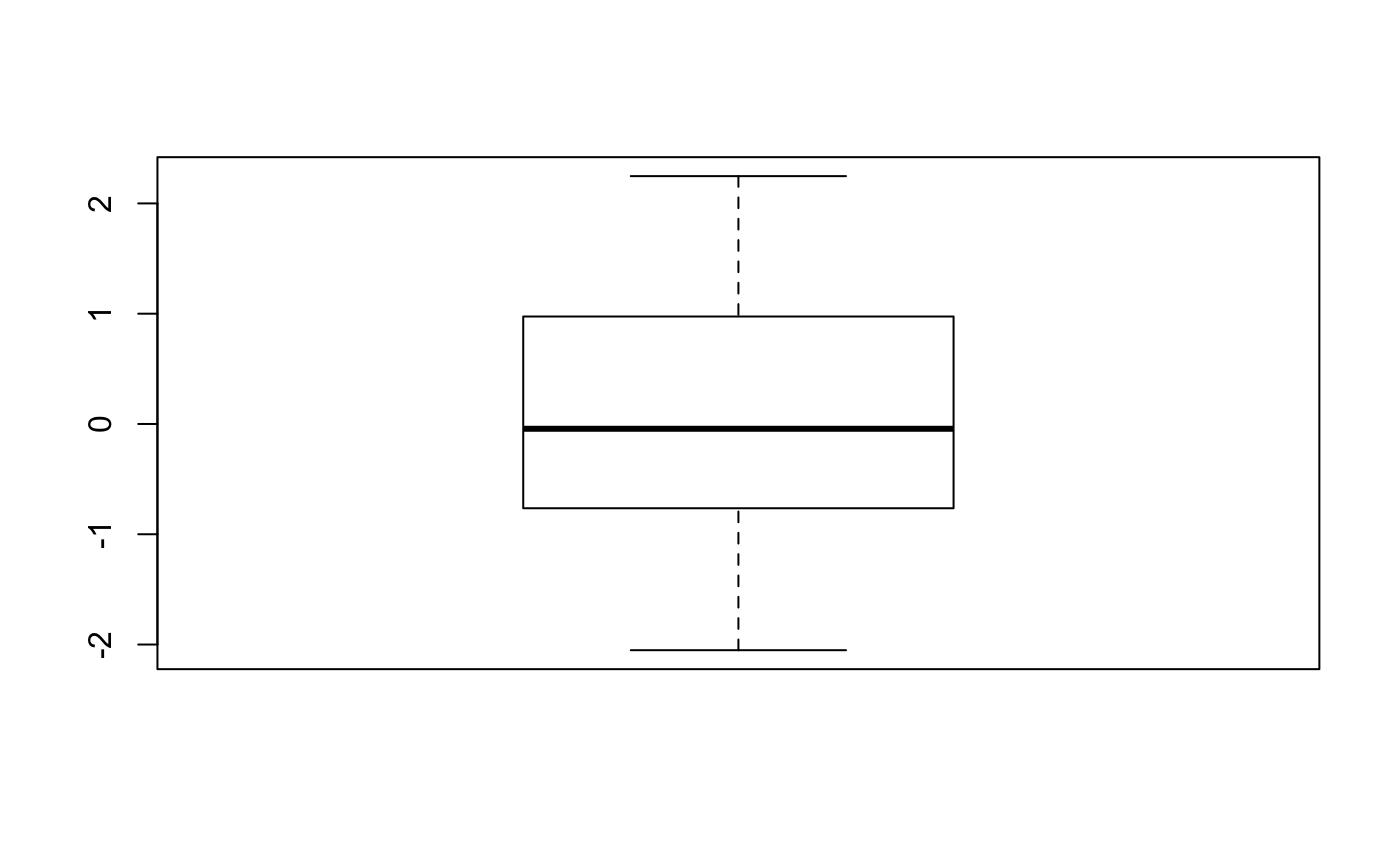
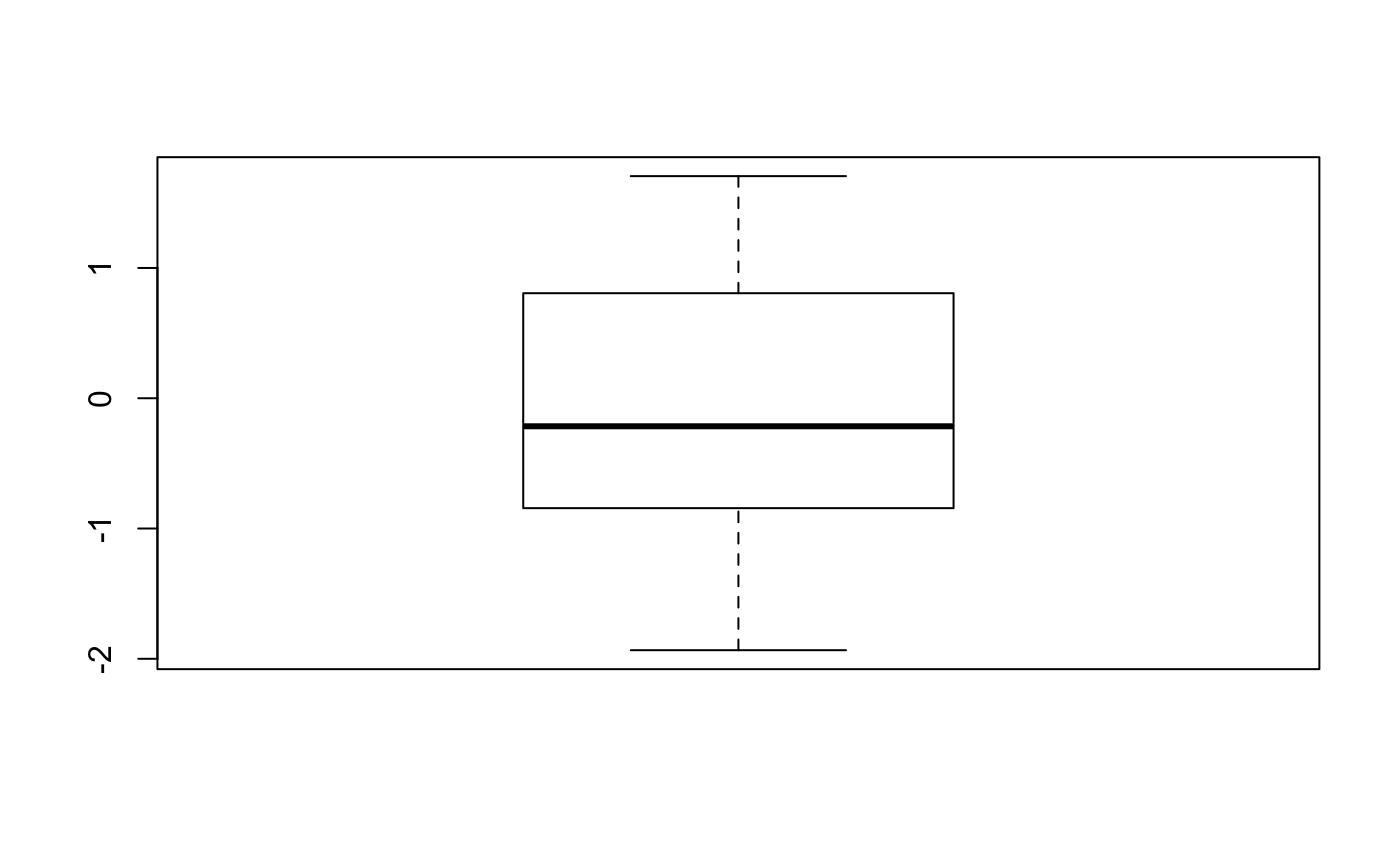
Built site for svMisc: 1.1.1@b7a2bc5

diff --git a/articles/svMisc.html b/articles/svMisc.html
@@ -178,12 +178,20 @@
 <span class="fu"><a href="../reference/batch.html">batch</a></span>(<span class="fu"><a href="https://rdrr.io/r/base/paste.html">paste0</a></span>(<span class="st">"file"</span>, <span class="fl">1</span>:<span class="fl">10</span>), <span class="no">fake_process</span>)
 <span class="co">#&gt; Running the batch process with fake_process...</span>
 <span class="co">#&gt; </span>
-<span class="co">#&gt; Progress:  1 on 10  Progress:  2 on 10  Progress:  3 on 10  Progress:  4 on 10  Progress:  5 on 10  Progress:  6 on 10  Progress:  7 on 10  Progress:  8 on 10</span>
-<span class="co">#&gt; Warning in fun(item, ...): fake_process was unable to process file8</span>
+<span class="co">#&gt; Progress:  1 on 10</span>
+<span class="co">#&gt; Warning in fun(item, ...): fake_process was unable to process file1</span>
 <span class="co">#&gt; </span>
-<span class="co">#&gt; Progress:  9 on 10  Progress: 10 on 10</span>
-<span class="co">#&gt; Warning in fun(item, ...): fake_process was unable to process file10</span>
-<span class="co">#&gt; Processed successfully 8 items on 10 (see .last.batch)</span></pre></body></html></div>
+<span class="co">#&gt; Progress:  2 on 10</span>
+<span class="co">#&gt; Warning in fun(item, ...): fake_process was unable to process file2</span>
+<span class="co">#&gt; </span>
+<span class="co">#&gt; Progress:  3 on 10  Progress:  4 on 10</span>
+<span class="co">#&gt; Warning in fun(item, ...): fake_process was unable to process file4</span>
+<span class="co">#&gt; </span>
+<span class="co">#&gt; Progress:  5 on 10  Progress:  6 on 10  Progress:  7 on 10  Progress:  8 on 10  Progress:  9 on 10</span>
+<span class="co">#&gt; Warning in fun(item, ...): fake_process was unable to process file9</span>
+<span class="co">#&gt; </span>
+<span class="co">#&gt; Progress: 10 on 10                      </span>
+<span class="co">#&gt; Processed successfully 6 items on 10 (see .last.batch)</span></pre></body></html></div>
 <p>In case an error occurred, the information is recorded i, <code>.last.batch</code>:</p>
 <div class="sourceCode" id="cb5"><html><body><pre class="r"><span class="no">.last.batch</span>
 <span class="co">#&gt; [1] FALSE</span>
@@ -191,7 +199,7 @@
 <span class="co">#&gt;  [1] "file1"  "file2"  "file3"  "file4"  "file5"  "file6"  "file7"  "file8" </span>
 <span class="co">#&gt;  [9] "file9"  "file10"</span>
 <span class="co">#&gt; attr(,"ok")</span>
-<span class="co">#&gt;  [1]  TRUE  TRUE  TRUE  TRUE  TRUE  TRUE  TRUE FALSE  TRUE FALSE</span></pre></body></html></div>
+<span class="co">#&gt;  [1] FALSE FALSE  TRUE FALSE  TRUE  TRUE  TRUE  TRUE FALSE  TRUE</span></pre></body></html></div>
 <p>The <code>items</code> and <code>ok</code> attributes are also available from that object for further inspection and action.</p>
 <p>If you run <code><a href="../reference/batch.html">batch()</a></code> in R, you noted also the <code><a href="../reference/progress.html">progress()</a></code>ion message that appeared. Indeed the <code><a href="../reference/progress.html">progress()</a></code> function allows to display such a message, either as a text at the R console, or in a dialog box. There are many different forms, see the man page <code><a href="../reference/progress.html">?progress</a></code>. for instance, here is a progress bar in percent, stopped at 75% () you need to call <code><a href="../reference/progress.html">progress()</a></code> with a value higher than <code>max.value =</code> to dismiss it):</p>
 <div class="sourceCode" id="cb6"><html><body><pre class="r"><span class="kw">for</span> (<span class="no">i</span> <span class="kw">in</span> <span class="fl">0</span>:<span class="fl">75</span>) {
@@ -288,10 +296,10 @@
 <span class="co">#&gt;  [4]     "c" := c(c1 = 4.5, c2 = 7.8, c3 = Inf, c4 = -Inf,                                                                                  </span>
 <span class="co">#&gt;  [5]     NA, c6 = NaN), "" := c(TRUE, FALSE, NA), "e" := list("Data_" := c(1,                                                               </span>
 <span class="co">#&gt;  [6]     2, 1), "levels" := c("a", "b"), "class" := "factor"),                                                                              </span>
-<span class="co">#&gt;  [7]     "f" := "this is a \\"string\\" with quote", "g" := list("Data_" := c(-0.84400160011353,                                            </span>
-<span class="co">#&gt;  [8]     1.36010371906419, 0.96129871878422, 0.01714048279857), "dim" := c(2,                                                               </span>
-<span class="co">#&gt;  [9]     2)), "h&amp;$@" := list("x" := seq(1, 3), "y" := c(1.592677104991,                                                                     </span>
-<span class="co">#&gt; [10]     -0.71885800408928, -0.88619349001327), "fact" := list("Data_" := c(2,                                                              </span>
+<span class="co">#&gt;  [7]     "f" := "this is a \\"string\\" with quote", "g" := list("Data_" := c(-0.56423177929749,                                            </span>
+<span class="co">#&gt;  [8]     0.6891207471707, 0.18400701888293, 1.18745311802501), "dim" := c(2,                                                                </span>
+<span class="co">#&gt;  [9]     2)), "h&amp;$@" := list("x" := seq(1, 3), "y" := c(1.92040573187735,                                                                   </span>
+<span class="co">#&gt; [10]     -0.26246727340663, -1.67744475289832), "fact" := list("Data_" := c(2,                                                              </span>
 <span class="co">#&gt; [11]     1, 2), "levels" := c("a", "b"), "class" := "factor")),                                                                             </span>
 <span class="co">#&gt; [12]     "i" := list("Data_" := 18372., "class" := "Date"),                                                                                 </span>
 <span class="co">#&gt; [13]     "j" := list("" := seq(1, 5), "y" := "another item")), "comment" := "My comment", "anAttrib" := seq(1, 10), "anotherAttrib" := list(</span>
@@ -320,16 +328,16 @@
 <span class="co">#&gt; [1] "this is a \"string\" with quote"</span>
 <span class="co">#&gt; </span>
 <span class="co">#&gt; $g</span>
-<span class="co">#&gt;            [,1]       [,2]</span>
-<span class="co">#&gt; [1,] -0.8440016 0.96129872</span>
-<span class="co">#&gt; [2,]  1.3601037 0.01714048</span>
+<span class="co">#&gt;            [,1]     [,2]</span>
+<span class="co">#&gt; [1,] -0.5642318 0.184007</span>
+<span class="co">#&gt; [2,]  0.6891207 1.187453</span>
 <span class="co">#&gt; </span>
 <span class="co">#&gt; $`h&amp;$@`</span>
 <span class="co">#&gt; $`h&amp;$@`$x</span>
 <span class="co">#&gt; [1] 1 2 3</span>
 <span class="co">#&gt; </span>
 <span class="co">#&gt; $`h&amp;$@`$y</span>
-<span class="co">#&gt; [1]  1.5926771 -0.7188580 -0.8861935</span>
+<span class="co">#&gt; [1]  1.9204057 -0.2624673 -1.6774448</span>
 <span class="co">#&gt; </span>
 <span class="co">#&gt; $`h&amp;$@`$fact</span>
 <span class="co">#&gt; [1] b a b</span>
@@ -367,7 +375,7 @@
 <li>Get the temporary directory used by this R process</li>
 </ul>
 <div class="sourceCode" id="cb15"><html><body><pre class="r"><span class="fu"><a href="../reference/system_file.html">system_dir</a></span>(<span class="st">"temp"</span>)
-<span class="co">#&gt; [1] "/var/folders/24/8k48jl6d249_n_qfxwsl6xvm0000gn/T//Rtmpx5IK3W"</span></pre></body></html></div>
+<span class="co">#&gt; [1] "/var/folders/24/8k48jl6d249_n_qfxwsl6xvm0000gn/T//RtmpfQs3Xa"</span></pre></body></html></div>
 <ul>
 <li>Get the system temporary directory</li>
 </ul>
@@ -453,7 +461,7 @@
 <li>Get the name of an (unused) temporary variable:</li>
 </ul>
 <div class="sourceCode" id="cb28"><html><body><pre class="r"><span class="fu"><a href="../reference/temp_var.html">temp_var</a></span>(<span class="st">"my_var"</span>)
-<span class="co">#&gt; [1] "my_var51465"</span></pre></body></html></div>
+<span class="co">#&gt; [1] "my_var32926"</span></pre></body></html></div>
 <ul>
 <li>Manage a temporary environment attached to the search path using <code><a href="../reference/temp_env.html">TempEnv()</a></code> and the <code>temp_XXX()</code> functions. The <strong>temporary_environment</strong> vignette gives more details on this series of functions.</li>
 </ul>

diff --git a/reference/system_file.html b/reference/system_file.html
@@ -246,7 +246,7 @@ and files for <code>system_dir()</code> and <code>system_file()</code>.</p>
 
     <h2 class="hasAnchor" id="examples"><a class="anchor" href="#examples"></a>Examples</h2>
     <pre class="examples"><div class='input'><span class='fu'>system_file</span>(<span class='st'>"INDEX"</span>, <span class='kw'>package</span> <span class='kw'>=</span> <span class='st'>"base"</span>)</div><div class='output co'>#&gt; [1] "/Library/Frameworks/R.framework/Resources/library/base/INDEX"</div><div class='input'><span class='fu'>system_file</span>(<span class='st'>"help"</span>, <span class='st'>"AnIndex"</span>, <span class='kw'>package</span> <span class='kw'>=</span> <span class='st'>"splines"</span>)</div><div class='output co'>#&gt; [1] "/Library/Frameworks/R.framework/Resources/library/splines/help/AnIndex"</div><div class='input'><span class='fu'>system_file</span>(<span class='kw'>package</span> <span class='kw'>=</span> <span class='st'>"base"</span>)  <span class='co'># This is a dir, not a file!</span></div><div class='output co'>#&gt; [1] ""</div><div class='input'><span class='fu'>system_file</span>(<span class='st'>"zip"</span>, <span class='kw'>exec</span> <span class='kw'>=</span> <span class='fl'>TRUE</span>)</div><div class='output co'>#&gt; [1] "/usr/bin/zip"</div><div class='input'><span class='fu'>system_file</span>(<span class='st'>"ftp"</span>, <span class='st'>"ping"</span>, <span class='st'>"zip"</span>, <span class='st'>"nonexistingexe"</span>, <span class='kw'>exec</span> <span class='kw'>=</span> <span class='fl'>TRUE</span>)</div><div class='output co'>#&gt;            ftp           ping            zip nonexistingexe 
-#&gt;             ""   "/sbin/ping" "/usr/bin/zip"             "" </div><div class='input'><span class='fu'>system_dir</span>(<span class='st'>"temp"</span>)             <span class='co'># The R temporary directory</span></div><div class='output co'>#&gt; [1] "/var/folders/24/8k48jl6d249_n_qfxwsl6xvm0000gn/T//RtmpARNhNT"</div><div class='input'><span class='fu'>system_dir</span>(<span class='st'>"sysTemp"</span>)          <span class='co'># The system temporary directory</span></div><div class='output co'>#&gt; [1] "/tmp"</div><div class='input'><span class='fu'>system_dir</span>(<span class='st'>"user"</span>)             <span class='co'># The user directory</span></div><div class='output co'>#&gt; [1] "/Users/runner"</div><div class='input'><span class='fu'>system_dir</span>(<span class='st'>"home"</span>, <span class='st'>"bin"</span>, <span class='st'>"doc"</span>, <span class='st'>"etc"</span>, <span class='st'>"share"</span>)  <span class='co'># Various R dirs</span></div><div class='output co'>#&gt;                                              home 
+#&gt;             ""   "/sbin/ping" "/usr/bin/zip"             "" </div><div class='input'><span class='fu'>system_dir</span>(<span class='st'>"temp"</span>)             <span class='co'># The R temporary directory</span></div><div class='output co'>#&gt; [1] "/var/folders/24/8k48jl6d249_n_qfxwsl6xvm0000gn/T//Rtmp1t02I0"</div><div class='input'><span class='fu'>system_dir</span>(<span class='st'>"sysTemp"</span>)          <span class='co'># The system temporary directory</span></div><div class='output co'>#&gt; [1] "/tmp"</div><div class='input'><span class='fu'>system_dir</span>(<span class='st'>"user"</span>)             <span class='co'># The user directory</span></div><div class='output co'>#&gt; [1] "/Users/runner"</div><div class='input'><span class='fu'>system_dir</span>(<span class='st'>"home"</span>, <span class='st'>"bin"</span>, <span class='st'>"doc"</span>, <span class='st'>"etc"</span>, <span class='st'>"share"</span>)  <span class='co'># Various R dirs</span></div><div class='output co'>#&gt;                                              home 
 #&gt;       "/Library/Frameworks/R.framework/Resources" 
 #&gt;                                               bin 
 #&gt;   "/Library/Frameworks/R.framework/Resources/bin" 

diff --git a/reference/obj_browse.html b/reference/obj_browse.html
@@ -496,7 +496,7 @@ explorer managed by the GUI client.</p>
 #&gt; [9] options 
 #&gt; &lt;0 rows&gt; (or 0-length row.names)</div><div class='input'><span class='fu'><a href='https://rdrr.io/r/base/rm.html'>rm</a></span>(<span class='no'>iris</span>, <span class='no'>trees</span>)</div><div class='output co'>#&gt; <span class='warning'>Warning: object 'iris' not found</span></div><div class='output co'>#&gt; <span class='warning'>Warning: object 'trees' not found</span></div><div class='input'>
 <span class='co'># For environments</span>
-(<span class='fu'>obj_info</span>(<span class='kw'>envir</span> <span class='kw'>=</span> <span class='st'>".GlobalEnv"</span>))</div><div class='output co'>#&gt; [1] "Global environment\n\n          used (Mb) gc trigger (Mb) limit (Mb) max used (Mb)\nNcells  921097 49.2    1823517 97.4         NA  1823517 97.4\nVcells 1911962 14.6    8388608 64.0      16384  3730114 28.5"</div><div class='input'>(<span class='fu'>obj_menu</span>(<span class='kw'>envir</span> <span class='kw'>=</span> <span class='st'>".GlobalEnv"</span>))</div><div class='output co'>#&gt;        widget     value                                              tip
+(<span class='fu'>obj_info</span>(<span class='kw'>envir</span> <span class='kw'>=</span> <span class='st'>".GlobalEnv"</span>))</div><div class='output co'>#&gt; [1] "Global environment\n\n          used (Mb) gc trigger (Mb) limit (Mb) max used (Mb)\nNcells  920995 49.2    1812650 96.9         NA  1812650 96.9\nVcells 1911804 14.6    8388608 64.0      16384  3782531 28.9"</div><div class='input'>(<span class='fu'>obj_menu</span>(<span class='kw'>envir</span> <span class='kw'>=</span> <span class='st'>".GlobalEnv"</span>))</div><div class='output co'>#&gt;        widget     value                                              tip
 #&gt; load     item   Load...                                   Load R objects
 #&gt; source   item Source...                                    Source R code
 #&gt; import   item Import...                                 Import data in R

diff --git a/index.html b/index.html
@@ -198,7 +198,7 @@
 <h2>Developers</h2>
 <ul class="list-unstyled">
 <li>
-<a href="https://phgrosjean.sciviews.org/">Philippe Grosjean</a> <br><small class="roles"> Author, maintainer </small>  </li>
+<a href="https://phgrosjean.sciviews.org/">Philippe Grosjean</a> <br><small class="roles"> Author, maintainer </small> <a href="https://orcid.org/0000-0002-2694-9471" target="orcid.widget" aria-label="ORCID"><span class="fab fa-orcid orcid" aria-hidden="true"></span></a> </li>
 <li><a href="authors.html">All authors...</a></li>
 </ul>
 </div>

diff --git a/authors.html b/authors.html
@@ -197,7 +197,7 @@
 
     <ul class="list-unstyled">
       <li>
-        <p><strong><a href='https://phgrosjean.sciviews.org/'>Philippe Grosjean</a></strong>. Author, maintainer. 
+        <p><strong><a href='https://phgrosjean.sciviews.org/'>Philippe Grosjean</a></strong>. Author, maintainer. <a href='https://orcid.org/0000-0002-2694-9471' target='orcid.widget' aria-label='ORCID'><span class='fab fa-orcid orcid' aria-hidden='true'></span></a>
         </p>
       </li>
       <li>

diff --git a/reference/subsettable.html b/reference/subsettable.html
@@ -231,7 +231,7 @@ $(x, name)</pre>
 #&gt;     stop("unknow type")
 #&gt;   )
 #&gt; }
-#&gt; &lt;environment: 0x7f9606f97e08&gt;
+#&gt; &lt;environment: 0x7f7f36514978&gt;
 #&gt; attr(,"class")
 #&gt; [1] "function"         "subsettable_type"</div><div class='input'>
 <span class='co'># This function can be used as usual:</span>
